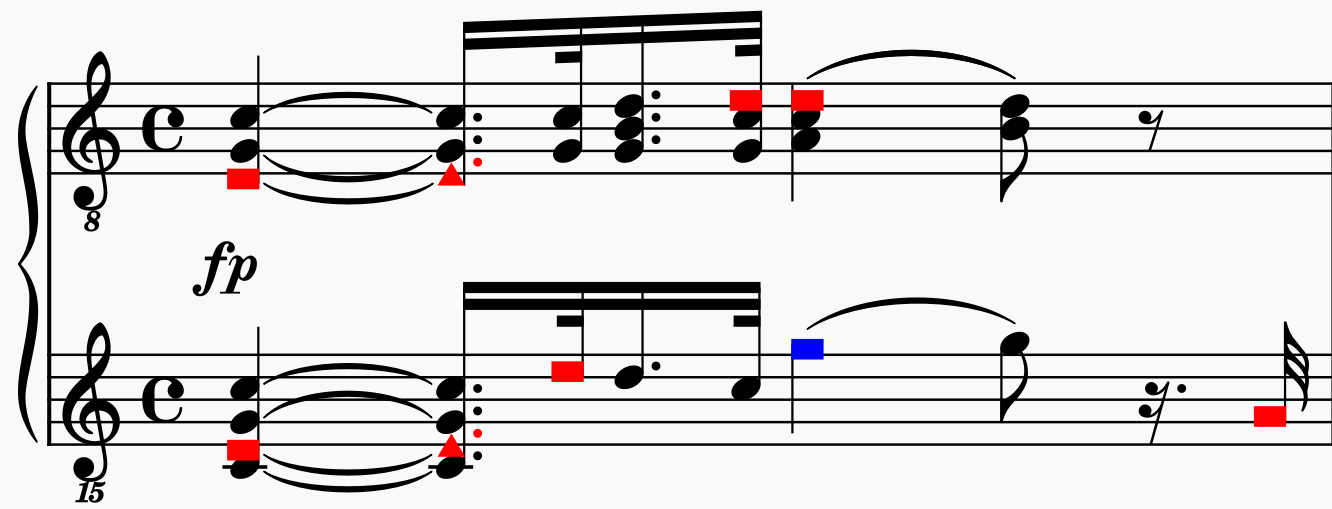
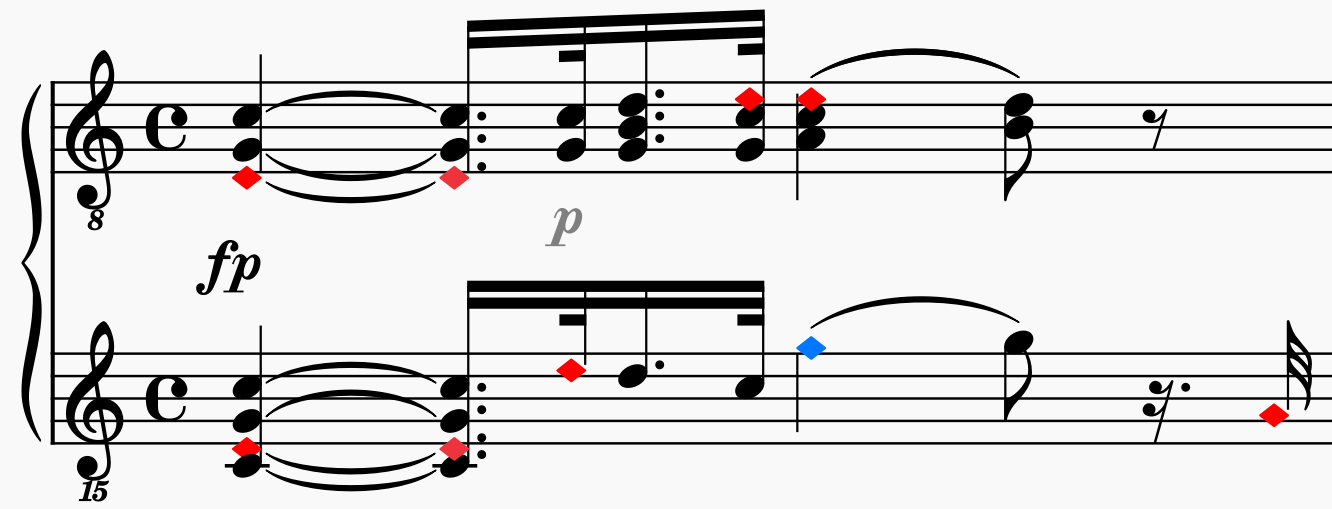
Fix shape selection and try different select all

Changed region(s): [[0.0, 0.0, 1.0, 1.0], [0.1231, 0.4715, 0.2155, 0.5894], [0.4002, 0.4126, 0.4617, 0.501]]

diff --git a/simplicior/src/helpers.js b/simplicior/src/helpers.js
@@ -16,21 +16,23 @@
 // function to every note in the current selection or to all notes in the
 // score if there is no selection.  
 function applyToNotesInSelection(func, arg) {
+    curScore.startCmd();
+    
     var selectionWasEmpty = (curScore.selection.elements.length == 0);
     if (selectionWasEmpty) {
-        console.log("selectionWasEmpty");
-        cmd("select-all");
+        console.log("selectionWasEmpty, selecting all notes");
+        curScore.selection.selectRange(0, curScore.lastSegment.tick + 1, 0, curScore.nstaves);
     }
-    curScore.startCmd();
-    console.log("going through elements");
+    console.log("Applying function to all elements");
     for (var i in curScore.selection.elements)
         if (curScore.selection.elements[i].type == Element.NOTE)
             func(curScore.selection.elements[i], arg);
-    curScore.endCmd();
+
     if (selectionWasEmpty) {
-        console.log("selectionWasEmpty");
-        cmd("escape");
+        console.log("selectionWasEmpty, clearing selection");
+        curScore.selection.clear(); // Clear the selection after applying the function
     }
+    curScore.endCmd();
 }
 
 function log(nIndent, message) {

diff --git a/simplicior/ShapeSelection.qml b/simplicior/ShapeSelection.qml
@@ -30,11 +30,18 @@ RowLayout {
     ComboBox {
         id: shapeComboBox
         model: shapes // List of shape names
-        currentIndex: model.indexOf(shape) // Set the current index based on the shape property
+        currentIndex: shapes.indexOf(shape) // Set the current index based on the shape property
+
         onCurrentIndexChanged: {
-            shape = model[currentIndex]; // Update the shape property when selection changes
-            console.log("Selected shape:", shape);
-            root.shapeChanged(); // Emit the signal to notify the parent
+            if (shape !== shapes[currentIndex]) { // Prevent unnecessary updates
+                shape = shapes[currentIndex]; // Update the shape property
+                console.log("Selected shape:", shape);
+                root.shapeChanged(); // Emit the signal to notify the parent
+            }
+        }
+
+        Component.onCompleted: {
+            currentIndex = shapes.indexOf(shape); // Initialize currentIndex when the component is loaded
         }
     }
 }

diff --git a/simplicior/src/clef_optimisation.js b/simplicior/src/clef_optimisation.js
@@ -22,9 +22,9 @@
 //=============================================================================
 
 .import "note.js" as Note
-    .import "helpers.js" as Helpers
-        .import "segment.js" as Segment
-            .import "clef.js" as Clef
+.import "helpers.js" as Helpers
+.import "segment.js" as Segment
+.import "clef.js" as Clef
 
 function assignReferencePitches(pitchesInMeasures, referencePitches, transitionFactor = 10) {
     // Process the sequence of measures, each as a collection of pitches,

diff --git a/simplicior/simplicior.qml b/simplicior/simplicior.qml
@@ -35,7 +35,7 @@ MuseScore {
     requiresScore: true
     title: qsTr("Simplicior Notation")
     thumbnailName: "simplicior.png"
-    categoryCode: "notation"
+    categoryCode: "Simplified notation"
 
     // Compute dimension based on content
     width: mainGrid.implicitWidth + extraLeft + extraRight
